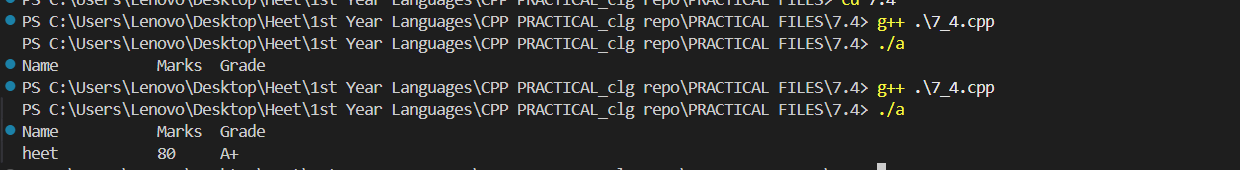
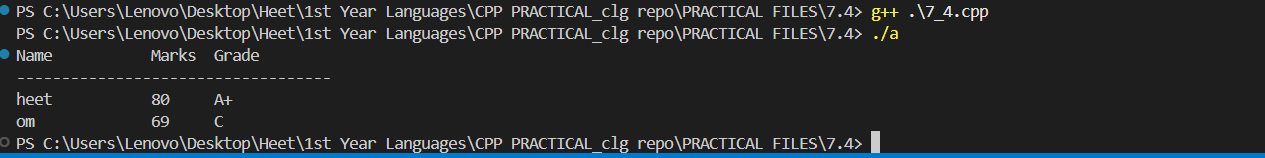
Changes

diff --git a/PRACTICAL FILES/7.4/7_4.cpp b/PRACTICAL FILES/7.4/7_4.cpp
@@ -13,7 +13,11 @@ int main() {
     while (fin >> n >> m >> g)
         v.push_back({n,m,g});
     cout << left << setw(15) << "Name" << setw(7) << "Marks" << setw(7) << "Grade" << endl;
+    cout<<"-----------------------------------" << endl;
     for (auto &r : v)
+    {
+       
         cout << setw(15) << r.name << setw(7) << r.marks << setw(7) << r.grade << endl;
-    return 0;
+    }
+        return 0;
 }
